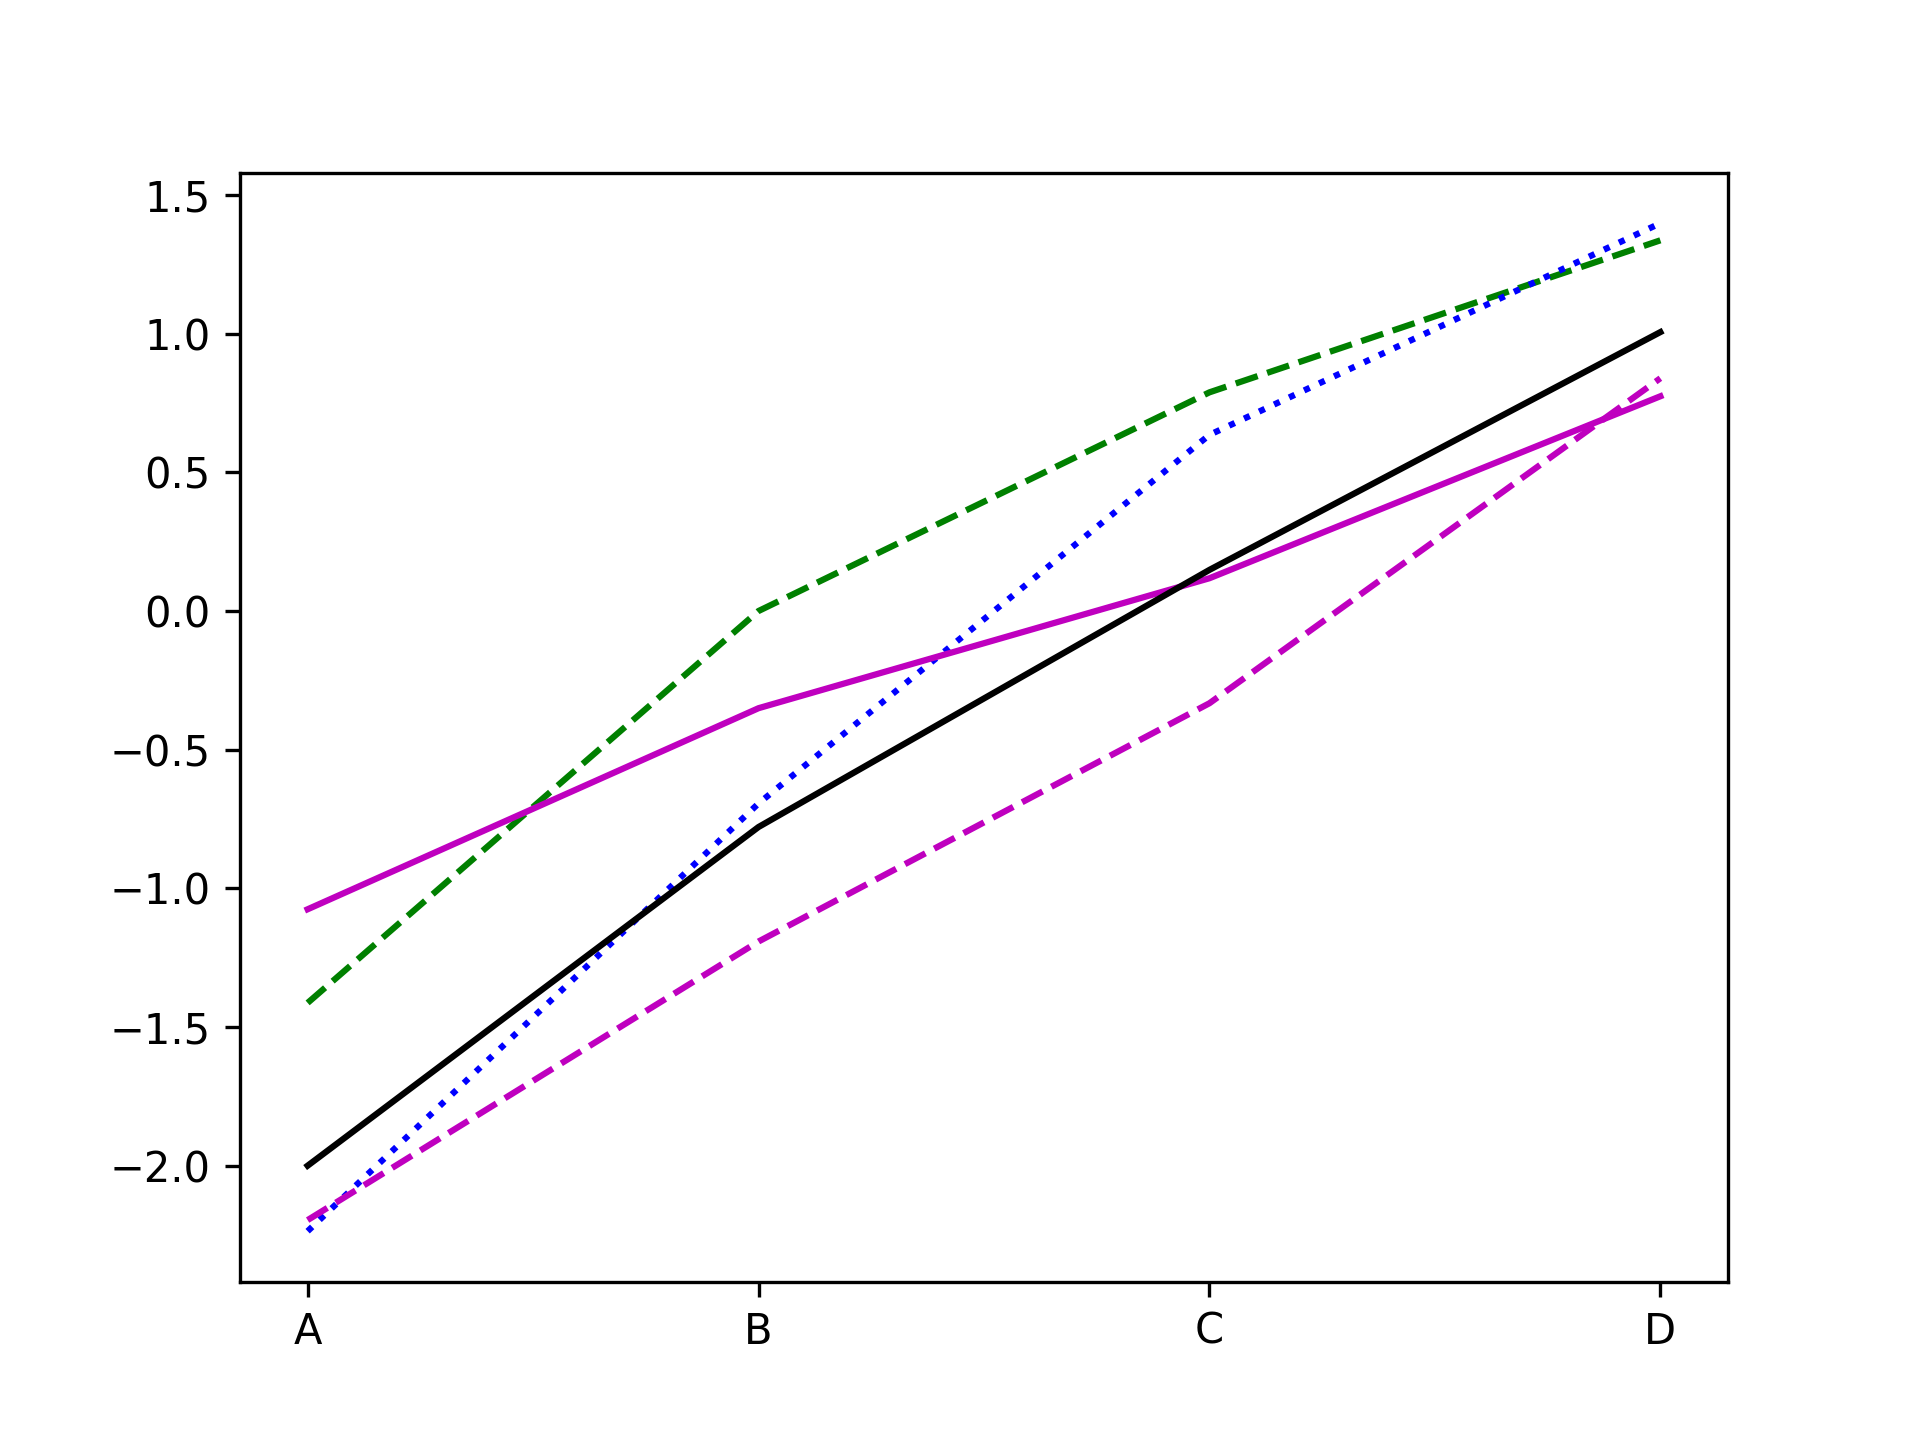
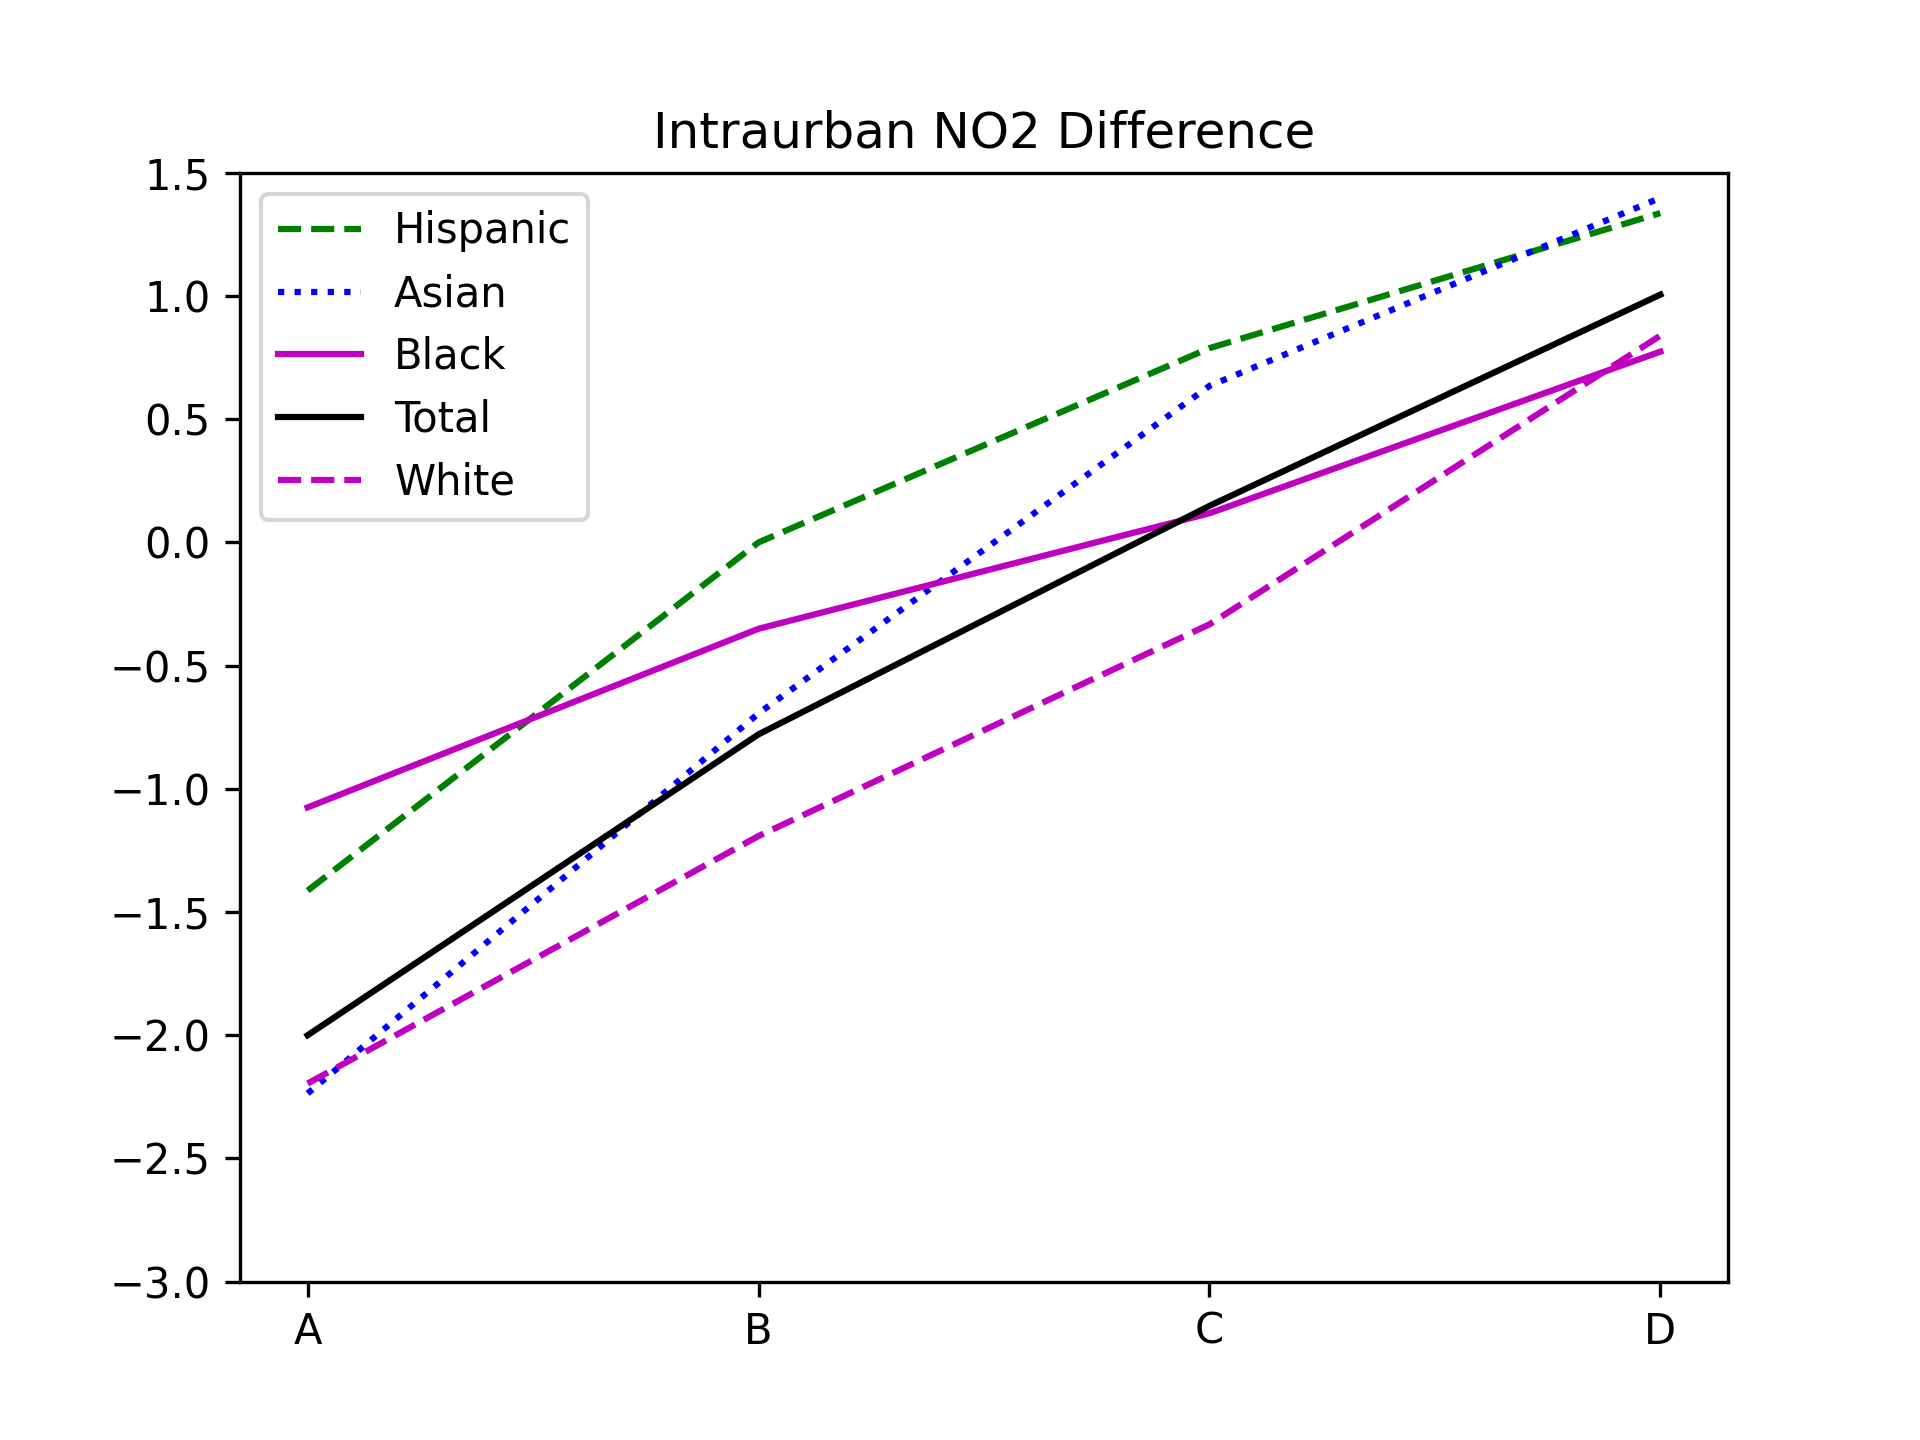
added legend, title, adjusted scales

diff --git a/pm25-diff.py b/pm25-diff.py
@@ -116,12 +116,15 @@ w1 = np.average(pm25_white_A)
 w2 = np.average(pm25_white_B)
 w3 = np.average(pm25_white_C)
 w4 = np.average(pm25_white_D)
-
 x_ax = ['A', 'B', 'C', 'D']
 
-plt.plot(x_ax, [h1, h2, h3, h4], 'g--')
-plt.plot(x_ax, [a1, a2, a3, a4], 'b:')
-plt.plot(x_ax, [b1, b2, b3, b4], 'm-')
-plt.plot(x_ax, [t1, t2, t3, t4], 'k-')
-plt.plot(x_ax, [w1, w2, w3, w4], 'm--')
+fig, ax = plt.subplots()
+line1 = ax.plot(x_ax, [h1, h2, h3, h4], 'g--', label = 'Hispanic')
+line2 = ax.plot(x_ax, [a1, a2, a3, a4], 'b:', label = 'Asian')
+line3 = ax.plot(x_ax, [b1, b2, b3, b4], 'm-', label = 'Black')
+line4 = ax.plot(x_ax, [t1, t2, t3, t4], 'k-', label = 'Total')
+line5 = ax.plot(x_ax, [w1, w2, w3, w4], 'm--', label = 'White')
+ax.set_ylim(-0.4, 0.2)
+ax.set_title('Intraurban PM2.5 Difference')
+ax.legend()
 plt.savefig('pm25-intraurban-diff.png', dpi = 300)

diff --git a/no2-diff.py b/no2-diff.py
@@ -112,12 +112,15 @@ w1 = np.average(no2_white_A)
 w2 = np.average(no2_white_B)
 w3 = np.average(no2_white_C)
 w4 = np.average(no2_white_D)
-
 x_ax = ['A', 'B', 'C', 'D']
 
-plt.plot(x_ax, [h1, h2, h3, h4], 'g--')
-plt.plot(x_ax, [a1, a2, a3, a4], 'b:')
-plt.plot(x_ax, [b1, b2, b3, b4], 'm-')
-plt.plot(x_ax, [t1, t2, t3, t4], 'k-')
-plt.plot(x_ax, [w1, w2, w3, w4], 'm--')
+fig, ax = plt.subplots()
+line1 = ax.plot(x_ax, [h1, h2, h3, h4], 'g--', label = 'Hispanic')
+line2 = ax.plot(x_ax, [a1, a2, a3, a4], 'b:', label = 'Asian')
+line3 = ax.plot(x_ax, [b1, b2, b3, b4], 'm-', label = 'Black')
+line4 = ax.plot(x_ax, [t1, t2, t3, t4], 'k-', label = 'Total')
+line5 = ax.plot(x_ax, [w1, w2, w3, w4], 'm--', label = 'White')
+ax.set_ylim(-3, 1.5)
+ax.set_title('Intraurban NO2 Difference')
+ax.legend()
 plt.savefig('no2-intraurban-diff.png', dpi = 300)
